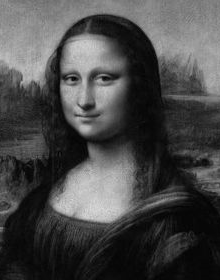
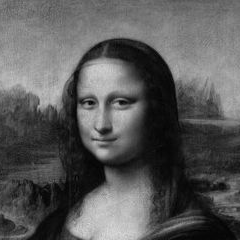
program is working, made square image

diff --git a/app/controllers/main.controller.js b/app/controllers/main.controller.js
@@ -44,6 +44,15 @@ function MainCtrl(MatrixService, CanvasService, $timeout) {
 				k = 0,
 				l = 0;
 
+		console.log('***');
+		console.log('imageWidth', imageWidth);
+		console.log('imageHeight', imageHeight);
+		console.log('patternWidth', patternWidth);
+		console.log('patternHeight', patternHeight);
+		console.log('iMax', iMax);
+		console.log('jMax', jMax);
+		console.log('***');
+
 		for (j = 0; j <= jMax; j = j + Math.trunc(patternHeight / vm.K)) {	
 			for (i = 0; i <= iMax; i = i + Math.trunc(patternWidth / vm.K)) {
 				loop(i, j, k, l);
@@ -58,7 +67,12 @@ function MainCtrl(MatrixService, CanvasService, $timeout) {
 				matrix[k][l] = ss.sampleCorrelation(
 					MatrixService.clean(image.getImageData(i, j, patternWidth, patternHeight).data),
 					MatrixService.clean(pattern.getImageData(0, 0, patternWidth, patternHeight).data));
-			}, 1);
+
+				/*console.log('---');
+				console.log('x', i, 'x+', i + patternWidth);
+				console.log('y', j, 'y+', j + patternHeight);
+				console.log('correlation', matrix[k][l]);*/
+			}, 0);
 		}
 
 		return matrix;
